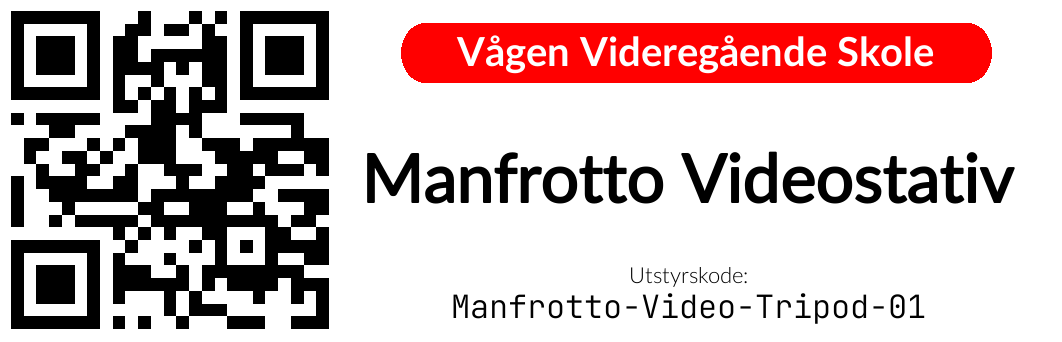
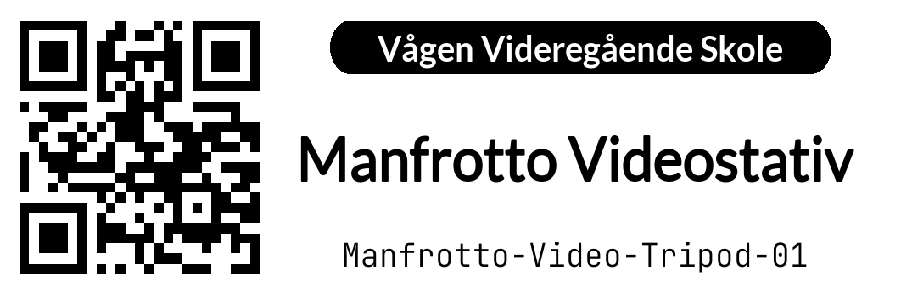
Adjust design to fit 901x306 & physical margin - needs some tweaking

diff --git a/LabelGenerator/LabelGenerator.py b/LabelGenerator/LabelGenerator.py
@@ -35,15 +35,15 @@ class LabelType(Enum):
 
 def _qr_label(content: InventoryItem) -> PIL.Image:
     """Create a QR code label for the given content."""
-    font_id = ImageFont.truetype("JetBrainsMono-Light.ttf", size=32)
-    font_name = ImageFont.truetype("LatoWeb-Regular.ttf", size=114)
-    font_small = ImageFont.truetype("LatoWeb-Light.ttf", size=22)
-    font_logo = ImageFont.truetype("LatoWeb-Bold.ttf", size=40)
+    font_id = ImageFont.truetype("JetBrainsMono-Light.ttf", size=36)
+    font_name = ImageFont.truetype("Lato-Regular.ttf", size=114)
+    font_small = ImageFont.truetype("Lato-Light.ttf", size=28)
+    font_logo = ImageFont.truetype("Lato-Bold.ttf", size=40)
 
     qr = qrcode.QRCode(border=0)
     qr.add_data(content.id)
     qr_img = qr.make_image(fill_color="black", back_color="white").convert("RGB")
-    qr_img = qr_img.resize(rect(27, 27), resample=PIL.Image.NEAREST)
+    qr_img = qr_img.resize(rect(24, 24), resample=PIL.Image.NEAREST)
 
     # Create the info box
     info = PIL.Image.new("RGB", rect(61, 40), color="white")
@@ -63,9 +63,9 @@ def _qr_label(content: InventoryItem) -> PIL.Image:
 
     logo = PIL.Image.new("RGB", rect(58, 6), color="white")
     logo_draw = PIL.ImageDraw.Draw(logo)
-    logo_draw.ellipse((rect(4, 0), rect(8, 5)), fill="red", outline="red", width=15)
-    logo_draw.ellipse((rect(50, 0), rect(54, 5)), fill="red", outline="red", width=15)
-    logo_draw.rectangle((rect(6, 0), rect(52, 5)), fill="red", outline="red", width=15)
+    logo_draw.ellipse((rect(4, 0), rect(8, 5)), fill="black", outline="black", width=15)
+    logo_draw.ellipse((rect(50, 0), rect(54, 5)), fill="black", outline="black", width=15)
+    logo_draw.rectangle((rect(6, 0), rect(52, 5)), fill="black", outline="black", width=15)
     logo_draw.text((to_pixels(29), to_pixels(2.6)), "Vågen Videregående Skole", font=font_logo, fill="white", align="left", anchor="mm")
 
     # Find the correct font size
@@ -75,17 +75,18 @@ def _qr_label(content: InventoryItem) -> PIL.Image:
         font_id = font_id.font_variant(size=font_id.size - 1)
 
     # Draw the text
-    draw_text(content.item_name, 14.5, font_name, stroke_width=1)
-    draw_text(content.id, 25, font_id)
-    draw_text('Utstyrskode:', 22.5, font_small)
+    draw_text(content.item_name, 14, font_name, stroke_width=1)
+    draw_text(content.id, 23.2, font_id)
+    # draw_text('Utstyrskode:', 20.2, font_small)
 
     # Construct the label
     label = PIL.Image.new("RGB", label_size, color="white")
-    label.paste(qr_img, (to_pixels(1), to_pixels(1)))
-    label.paste(info, (qr_img.width + to_pixels(1), to_pixels(1)))
-    label.paste(logo, (to_pixels(30), to_pixels(2)))
 
-    return label
+    label.paste(info, (qr_img.width + to_pixels(3), to_pixels(1)))
+    label.paste(logo, (to_pixels(29), to_pixels(2)))
+    label.paste(qr_img, (to_pixels(2), to_pixels(2)))
+
+    return label.resize((901, 306), resample=PIL.Image.NEAREST)
 
 
 def _barcode_label(content: InventoryItem) -> PIL.Image:
@@ -106,9 +107,9 @@ def _barcode_label(content: InventoryItem) -> PIL.Image:
 
     # Construct the label
     label = PIL.Image.new("RGB", label_size, color="white")
-    label.paste(image, (int((label_size[0] - image.width) / 2), int((label_size[1] - image.height) / 2 + to_pixels(1.5))))
+    label.paste(image, (int((label_size[0] - image.width) / 2), int((label_size[1] - image.height) / 2)))
 
-    return label
+    return label.resize((901, 306), resample=PIL.Image.NEAREST)
 
 
 def create_label(content: InventoryItem, variant: LabelType = LabelType.QR) -> PIL.Image:

diff --git a/demo/demo.py b/demo/demo.py
@@ -3,20 +3,17 @@ from LabelGenerator.LabelGenerator import create_label, InventoryItem, LabelType
 label = create_label(InventoryItem("A6500-01", "Sony A6500"))
 label.save("qr.png")
 
-label = create_label(InventoryItem("A6500-01", "Sony A6500"), variant=LabelType.BARCODE)
-label.save("barcode.png")
-
 label_long = create_label(InventoryItem("Manfrotto-Video-Tripod-01", "Manfrotto Videostativ"))
 label_long.save("qr_long.png")
+
+label_extra_long = create_label(InventoryItem("Aputure-Light-Kit-Fixture-Power-Supply-01", "Aputure Lampe Strømforsyning"))
+label_extra_long.save("qr_extra_long.png")
+
+label = create_label(InventoryItem("A6500-01", "Sony A6500"), variant=LabelType.BARCODE)
+label.save("barcode.png")
 
 label_long = create_label(InventoryItem("Manfrotto-Video-Tripod-01", "Manfrotto Videostativ"), variant=LabelType.BARCODE)
 label_long.save("barcode_long.png")
 
-# NOTE: This will fail, as the text is too long to fit on the label.
-label_extra_long = create_label(InventoryItem("Aputure-Light-Kit-Fixture-Power-Supply-01", "Aputure Lampe Strømforsyning"))
-label_extra_long.save("qr_extra_long.png")
-
-# However, this will work, as the barcode will resize to fit the label.
 label_extra_long = create_label(InventoryItem("Aputure-Light-Kit-Fixture-Power-Supply-01", "Aputure Lampe Strømforsyning"), variant=LabelType.BARCODE)
 label_extra_long.save("barcode_extra_long.png")
-
